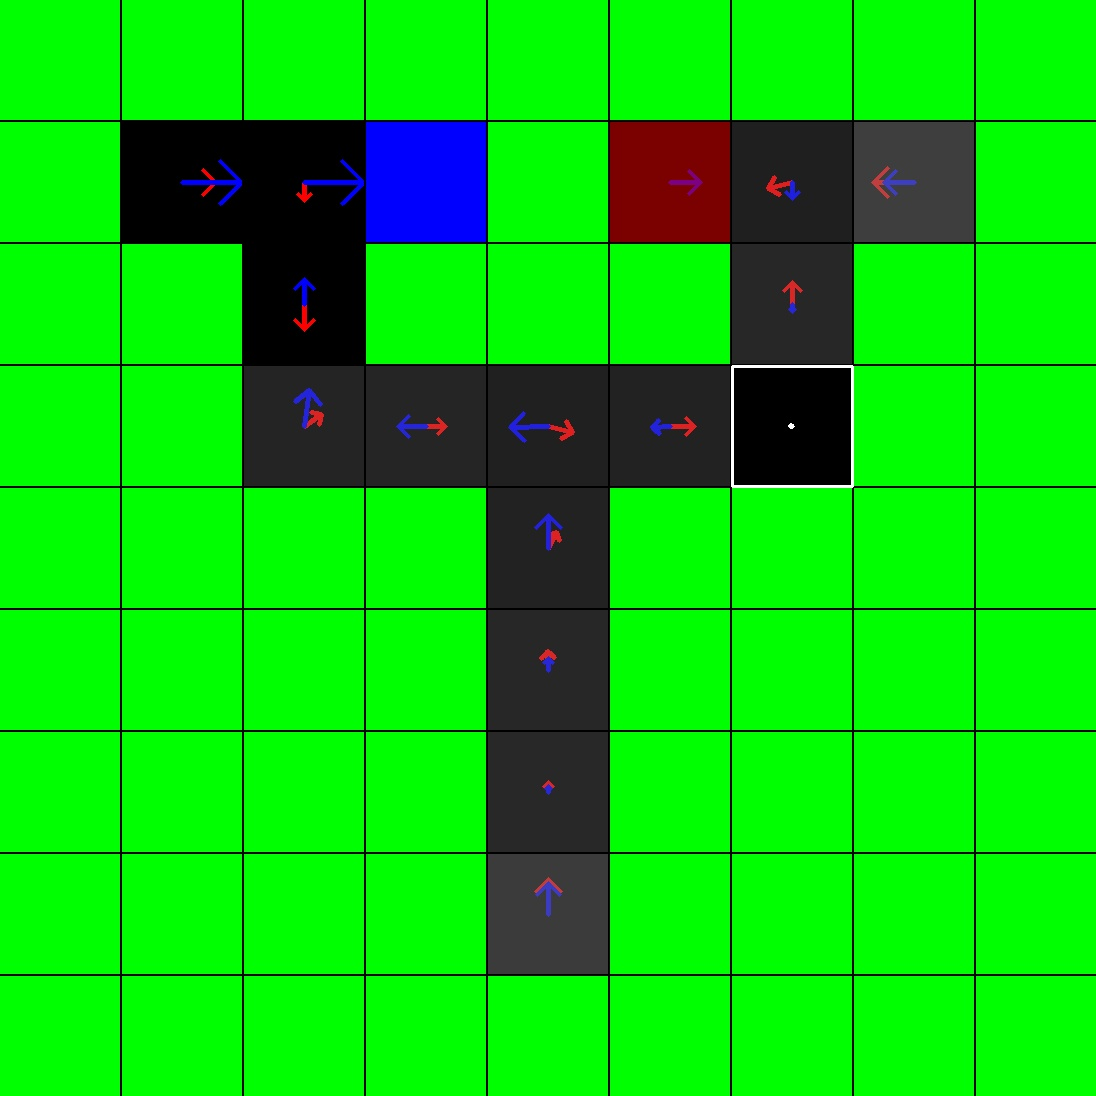
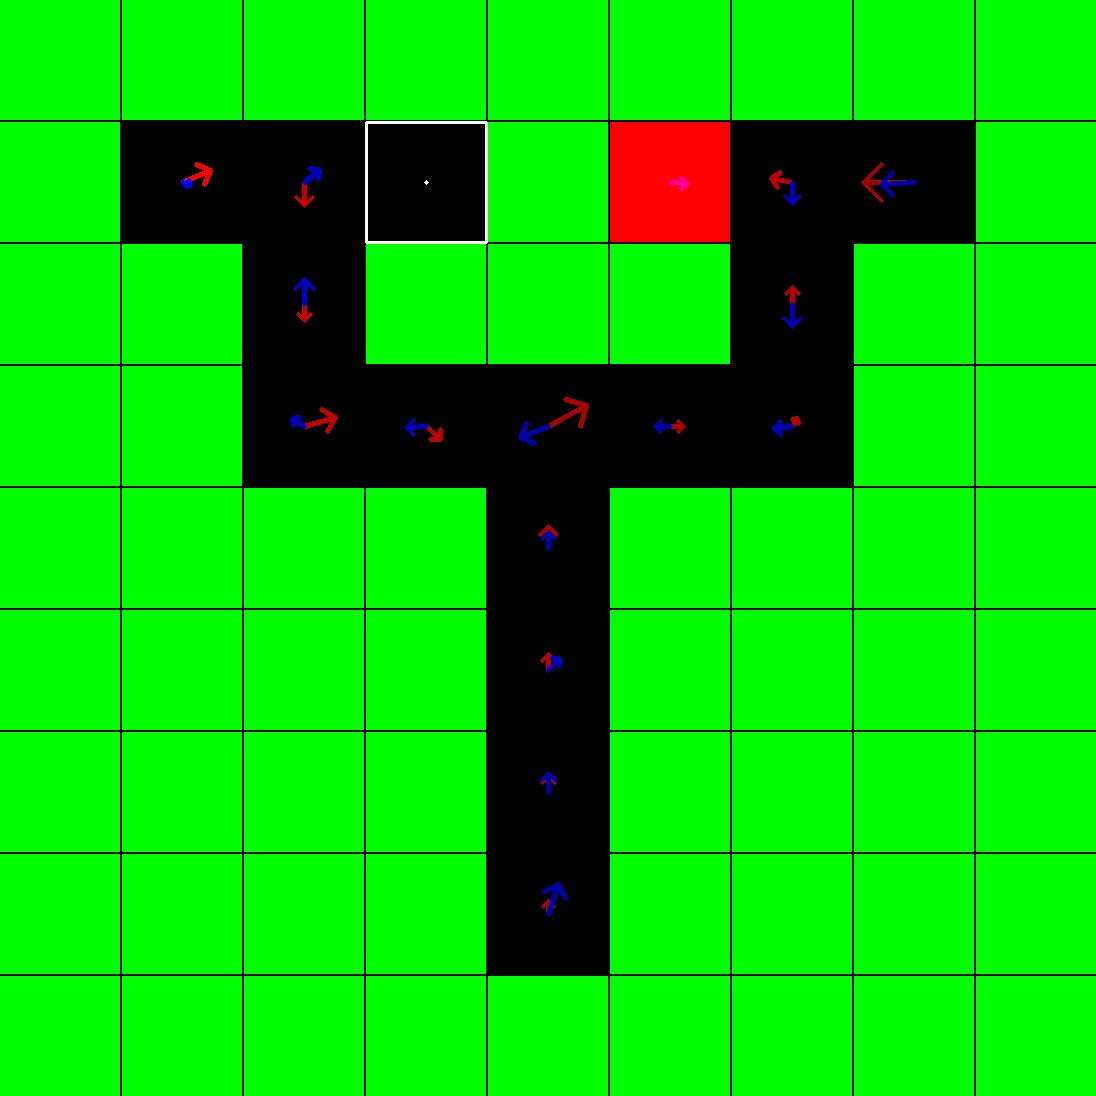
updated maps

Changed region(s): [[0.2172, 0.0931, 0.8996, 0.8996], [0.2482, 0.0931, 0.4653, 0.2482], [0.1551, 0.1241, 0.2172, 0.1861]]

diff --git a/simulation.py b/simulation.py
@@ -1,16 +1,5 @@
-"""  _
-    |_|_
-   _  | |
- _|_|_|_|_
-|_|_|_|_|_|_
-  |_|_|_|_|_|
-    | | |_|
-    |_|_
-      |_|
+# include reference from https://towardsdatascience.com/maze-rl-d035f9ccdc63
 
-Author: Souham Biswas
-Website: https://www.linkedin.com/in/souham/
-"""
 
 import itertools
 import time
@@ -47,7 +36,7 @@ data_2 = []
 
 class GridWorld:
 
-    def __init__(self, world_height=3, world_width=4, discount_factor=.5, default_reward=-.5, wall_penalty=-.6,
+    def __init__(self, world_height=3, world_width=4, discount_factor=.7, default_reward=-.5, wall_penalty=-.6,
                  win_reward=10., lose_reward=5., viz=True, patch_side=120, grid_thickness=2, arrow_thickness=3,
                  wall_locs=[[1, 1], [1, 2]], win_locs=[[0, 3]], lose_locs=[[1, 3]], start_loc=[0, 0],
                  reset_prob=.2):
@@ -212,8 +201,7 @@ class GridWorld:
             patch[:, :, :] = self.win_color[1]
         elif self.world[0][i, j] == self.wall_penalty:
             patch[:, :, :] = self.wall_color
-        else:
-            patch[:, :, :] = self.path_color
+
 
         if self.world[1][i, j] == self.default_reward:
             arrow_canvas = np.zeros_like(patch)
@@ -230,7 +218,7 @@ class GridWorld:
                 cv2.arrowedLine(arrow_canvas, (s, s), (vx, vy), self.win_color[reward_index],
                                 thickness=self.arrow_thickness,
                                 tipLength=0.5)
-                gridbox = (magnitude * arrow_canvas + (1 - magnitude) * patch).astype(np.uint8)
+                gridbox = (magnitude * arrow_canvas + patch).astype(np.uint8)
                 self.viz_canvas[starty:endy, startx:endx] = gridbox
         else:
             self.viz_canvas[starty:endy, startx:endx] = patch

diff --git a/robot.py b/robot.py
@@ -1,16 +1,4 @@
-"""  _
-    |_|_
-   _  | |
- _|_|_|_|_
-|_|_|_|_|_|_
-  |_|_|_|_|_|
-    | | |_|
-    |_|_
-      |_|
-
-Author: Souham Biswas
-Website: https://www.linkedin.com/in/souham/
-"""
+# include reference from https://towardsdatascience.com/maze-rl-d035f9ccdc63
 
 import itertools
 import time
